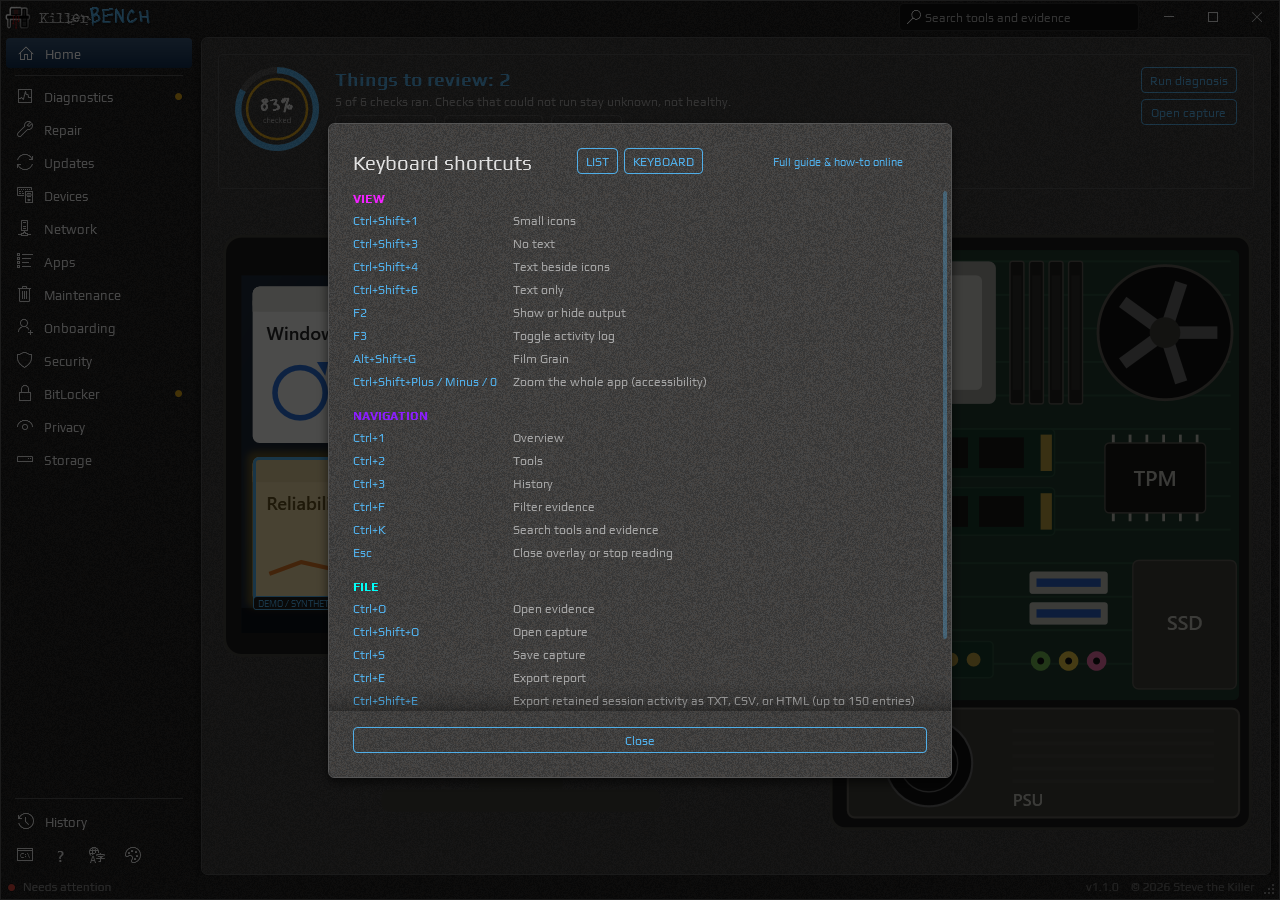
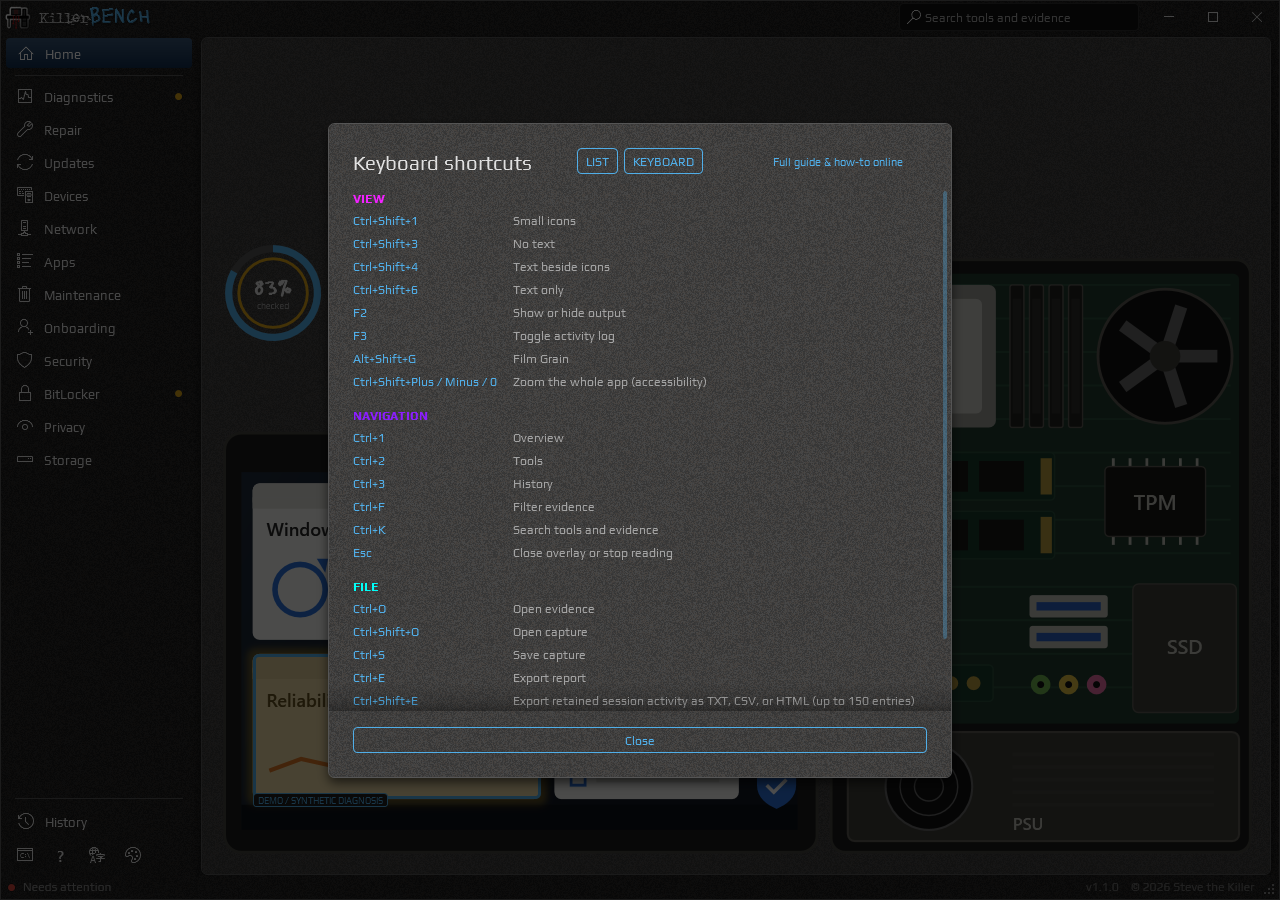
v1.1.0: Lower the monitor to the tower's base and put the gauge and buttons above it

diff --git a/Shell/MainWindow.xaml b/Shell/MainWindow.xaml
@@ -189,13 +189,15 @@
         <Border x:Name="OverviewPage" Grid.Column="2" Style="{StaticResource Panel}" Background="{DynamicResource ContentPaneBrush}" icons:ThemeMotif.Part="Window" icons:ThemeMotif.BaseBrush="ContentPaneBrush">
           <Grid><Border IsHitTestVisible="False" CornerRadius="{DynamicResource PanelCornerRadius}" Background="{DynamicResource GrainTileBrush}" Opacity="{DynamicResource GrainOpacity}"/><Border>
           <ScrollViewer x:Name="OverviewScroll" Style="{StaticResource ShadowScrollViewer}" Padding="16" VerticalScrollBarVisibility="Auto" HorizontalScrollBarVisibility="Disabled">
-            <!-- Home: one summary band across the top (gauge, status, symptoms, actions), the machine fills the rest. -->
+            <!-- Home: the machine sits on the pane's floor. The monitor is flush with the tower's base, and the space
+                 above the monitor holds the gauge, the status, the symptom buttons and the actions (MachineMapPanel.GaugeRect). -->
             <Grid x:Name="OverviewLayout">
-              <Grid.RowDefinitions><RowDefinition Height="Auto"/><RowDefinition Height="Auto"/></Grid.RowDefinitions>
-              <Border x:Name="OverviewHero" Margin="0,0,0,16" Background="{DynamicResource PaneBrush}" BorderBrush="{DynamicResource PaneBorderBrush}" BorderThickness="1" CornerRadius="{DynamicResource ControlCornerRadius}" Padding="16,12">
-                <Grid><Grid>
-                  <Grid.ColumnDefinitions><ColumnDefinition Width="Auto"/><ColumnDefinition Width="*"/><ColumnDefinition Width="Auto"/></Grid.ColumnDefinitions>
-                  <Viewbox x:Name="OverviewGaugeSpot" Width="84" Height="84" VerticalAlignment="Top" Margin="0,0,16,0">
+              <Grid x:Name="OverviewMapHost">
+              <Viewbox x:Name="OverviewHeroSpot" HorizontalAlignment="Left" VerticalAlignment="Top" Stretch="Uniform" StretchDirection="DownOnly" Panel.ZIndex="1">
+                <Border x:Name="OverviewHero" Width="440">
+                <Grid>
+                  <Grid.ColumnDefinitions><ColumnDefinition Width="Auto"/><ColumnDefinition Width="*"/></Grid.ColumnDefinitions>
+                  <Viewbox x:Name="OverviewGaugeSpot" Width="96" Height="96" VerticalAlignment="Top" Margin="0,0,16,0">
                     <Grid Width="120" Height="120">
                       <icons:CoverageGauge x:Name="OverviewGauge" TrackBrush="{DynamicResource PaneBorderBrush}" CoverageBrush="{DynamicResource PrimaryBrush}" ToneBrush="{DynamicResource PaneBorderBrush}" IsHitTestVisible="False"/>
                       <StackPanel VerticalAlignment="Center" HorizontalAlignment="Center">
@@ -204,7 +206,7 @@
                       </StackPanel>
                     </Grid>
                   </Viewbox>
-                  <StackPanel Grid.Column="1" VerticalAlignment="Center">
+                  <StackPanel Grid.Column="1" VerticalAlignment="Top">
                     <TextBlock x:Name="OverviewHeadline" Text="{DynamicResource Str_Workspace_SystemMap}" FontSize="18" FontWeight="SemiBold" Foreground="{DynamicResource PrimaryBrush}" TextWrapping="Wrap"/>
                     <TextBlock x:Name="OverviewDetail" Text="{DynamicResource Str_Workspace_MapHint}" FontSize="12" Foreground="{DynamicResource MutedTextBrush}" TextWrapping="Wrap" Margin="0,2,0,6"/>
                     <WrapPanel x:Name="OverviewChips" Visibility="Collapsed"/>
@@ -217,12 +219,11 @@
                         </Button>
                       </DataTemplate></ItemsControl.ItemTemplate>
                     </ItemsControl>
+                    <WrapPanel x:Name="OverviewMapActions" Margin="0,10,0,0"><Button x:Name="OverviewCheckButton" Content="{DynamicResource Str_Main_RunDiagnosis}" Click="OnOverviewCheck" Margin="0,0,8,0"/><Button x:Name="OverviewOpenCaptureButton" Content="{DynamicResource Str_OpenCapture}" Click="OnOpenCapture"/></WrapPanel>
                   </StackPanel>
-                  <StackPanel x:Name="OverviewMapActions" Grid.Column="2" VerticalAlignment="Top" Margin="16,0,0,0"><Button x:Name="OverviewCheckButton" Content="{DynamicResource Str_Main_RunDiagnosis}" Click="OnOverviewCheck" Margin="0,0,0,6"/><Button x:Name="OverviewOpenCaptureButton" Content="{DynamicResource Str_OpenCapture}" Click="OnOpenCapture"/></StackPanel>
                 </Grid>
-                <Border Style="{StaticResource FlyoutGrain}" Margin="-16,-12"/></Grid>
-              </Border>
-              <Grid x:Name="OverviewMapHost" Grid.Row="1">
+                </Border>
+              </Viewbox>
               <ListBox x:Name="SystemAreas" VerticalAlignment="Top" Background="Transparent" BorderThickness="0" SelectionChanged="OnSystemAreaSelected" PreviewMouseLeftButtonUp="OnReopenSelected" ScrollViewer.HorizontalScrollBarVisibility="Disabled" ScrollViewer.VerticalScrollBarVisibility="Disabled" AutomationProperties.Name="{DynamicResource Str_Workspace_SelectArea}">
                 <ListBox.ItemsPanel><ItemsPanelTemplate><icons:MachineMapPanel/></ItemsPanelTemplate></ListBox.ItemsPanel>
                 <ListBox.ItemContainerStyle><Style TargetType="ListBoxItem" BasedOn="{StaticResource SourceItem}">

diff --git a/Shell/WorkspaceNavigation.cs b/Shell/WorkspaceNavigation.cs
@@ -87,13 +87,57 @@ public partial class MainWindow
     private void FitSystemMap()
     {
         if (!OverviewPage.IsVisible || OverviewScroll.ViewportHeight <= 0) return;
-        // The machine fills whatever the summary band leaves, so the pane has no dead floor.
-        // A fixed height, not a floor: inside the scroll viewer the map would otherwise size itself to the width and run off the bottom.
-        // Below 280px it keeps that floor and the page scrolls rather than shrinking the machine to nothing.
-        double height = Math.Max(280, OverviewScroll.ViewportHeight - OverviewHero.ActualHeight - OverviewHero.Margin.Bottom - 2);
-        // A narrow pane stacks the parts as a list, which needs its natural height.
-        if (OverviewMapHost.ActualWidth < 460) { if (!double.IsNaN(SystemAreas.Height)) SystemAreas.ClearValue(HeightProperty); return; }
+        // A narrow pane stacks the parts as a list with the status block above it, at natural heights.
+        if (OverviewMapHost.ActualWidth < 460)
+        {
+            if (!double.IsNaN(SystemAreas.Height)) SystemAreas.ClearValue(HeightProperty);
+            if (!double.IsNaN(OverviewHeroSpot.Width)) { OverviewHeroSpot.ClearValue(WidthProperty); OverviewHeroSpot.ClearValue(MaxHeightProperty); }
+            SetIfChanged(OverviewHero, Math.Max(200, OverviewMapHost.ActualWidth));
+            SetMargin(OverviewHeroSpot, new Thickness(0));
+            SetMargin(SystemAreas, new Thickness(0, OverviewHeroSpot.ActualHeight + 12, 0, 0));
+            return;
+        }
+        // The machine takes the pane's full height: a fixed height, because inside the scroll viewer it would otherwise
+        // size itself to the width and run off the bottom. Below 280px the page scrolls instead of shrinking it to nothing.
+        double height = Math.Max(280, OverviewScroll.ViewportHeight - 2);
         if (double.IsNaN(SystemAreas.Height) || Math.Abs(SystemAreas.Height - height) > 1) SystemAreas.Height = height;
+        SetMargin(SystemAreas, new Thickness(0));
+        PlaceOverviewHero();
+    }
+
+    // The status block fills the space above the monitor, sitting just over it. It shrinks to fit when that space is small.
+    private void PlaceOverviewHero()
+    {
+        var machine = FindChild<KillerBench.Controls.MachineMapPanel>(SystemAreas);
+        if (machine is null || machine.GaugeRect.IsEmpty || machine.GaugeRect.Height <= 0) return;
+        Rect strip = machine.GaugeRect;
+        var origin = machine.TranslatePoint(new Point(strip.X, strip.Y), OverviewMapHost);
+        SetIfChanged(OverviewHero, Math.Max(440, strip.Width));
+        if (Math.Abs(OverviewHeroSpot.Width - strip.Width) > 0.5) OverviewHeroSpot.Width = strip.Width;
+        if (Math.Abs(OverviewHeroSpot.MaxHeight - strip.Height) > 0.5) OverviewHeroSpot.MaxHeight = strip.Height;
+        double used = OverviewHeroSpot.ActualHeight > 0 ? OverviewHeroSpot.ActualHeight : strip.Height;
+        SetMargin(OverviewHeroSpot, new Thickness(origin.X, origin.Y + Math.Max(0, strip.Height - used), 0, 0));
+    }
+
+    private static void SetIfChanged(FrameworkElement element, double width)
+    {
+        if (Math.Abs(element.Width - width) > 0.5) element.Width = width;
+    }
+
+    private static void SetMargin(FrameworkElement element, Thickness margin)
+    {
+        if (Math.Abs(element.Margin.Left - margin.Left) > 0.5 || Math.Abs(element.Margin.Top - margin.Top) > 0.5) element.Margin = margin;
+    }
+
+    private static T? FindChild<T>(DependencyObject parent) where T : DependencyObject
+    {
+        for (int i = 0; i < System.Windows.Media.VisualTreeHelper.GetChildrenCount(parent); i++)
+        {
+            var child = System.Windows.Media.VisualTreeHelper.GetChild(parent, i);
+            if (child is T match) return match;
+            if (FindChild<T>(child) is { } found) return found;
+        }
+        return null;
     }
 
     private void FitInitialOverviewHeight()

diff --git a/Controls/MachineMapPanel.cs b/Controls/MachineMapPanel.cs
@@ -41,16 +41,22 @@ public sealed class MachineMapPanel : Panel
         ["Repair"] = new(448, 340, 284, 82),
     };
 
+    // The monitor sits flush on the tower's floor line; the strip it frees above it is GaugeRect, where the
+    // Overview puts its score gauge. Monitor parts are drawn in the old coordinates and shifted down by MonitorDrop.
+    private const double MonitorDrop = 124;
     private static readonly Rect Monitor = new(4, 4, 424, 300);
     private static readonly Rect MonitorScreen = new(16, 32, 410, 260);
     private static readonly Rect Tower = new(438, 4, 300, 424);
 
     public Rect ScreenRect { get; private set; } = Rect.Empty;
     public Rect TowerRect { get; private set; } = Rect.Empty;
+    public Rect GaugeRect { get; private set; } = Rect.Empty;
 
     private double scale = 1;
     private Vector offset;
     private bool drawn;
+
+    private static Rect Placed(Rect design) => design.X < Tower.X ? Rect.Offset(design, 0, MonitorDrop) : design;
 
     private Rect ToView(Rect design) => new(offset.X + design.X * scale, offset.Y + design.Y * scale, design.Width * scale, design.Height * scale);
 
@@ -76,16 +82,20 @@ public sealed class MachineMapPanel : Panel
         {
             double y = 0;
             foreach (UIElement child in InternalChildren) { child.Arrange(new Rect(0, y, finalSize.Width, child.DesiredSize.Height)); y += child.DesiredSize.Height; }
-            ScreenRect = TowerRect = Rect.Empty;
+            ScreenRect = TowerRect = GaugeRect = Rect.Empty;
             InvalidateVisual();
             return finalSize;
         }
         scale = Math.Min(finalSize.Width / DesignWidth, finalSize.Height / DesignHeight);
-        offset = new Vector((finalSize.Width - DesignWidth * scale) / 2, Math.Max(0, (finalSize.Height - DesignHeight * scale) / 2));
-        ScreenRect = ToView(MonitorScreen);
+        // Centered across, sitting on the floor: spare height goes above the machine, into the space over the monitor.
+        offset = new Vector((finalSize.Width - DesignWidth * scale) / 2, Math.Max(0, finalSize.Height - DesignHeight * scale));
+        ScreenRect = ToView(Placed(MonitorScreen));
+        // Everything above the monitor, from the panel's top edge down to just over the webcam.
+        var monitorView = ToView(Placed(Monitor));
+        GaugeRect = new Rect(monitorView.X, 0, monitorView.Width, Math.Max(0, ToView(Placed(Parts["Privacy"])).Y - 6 * scale));
         TowerRect = ToView(Tower);
         foreach (UIElement child in InternalChildren)
-            child.Arrange(Parts.TryGetValue(GetPart(child), out var part) ? ToView(part) : new Rect(-9999, -9999, 0, 0));
+            child.Arrange(Parts.TryGetValue(GetPart(child), out var part) ? ToView(Placed(part)) : new Rect(-9999, -9999, 0, 0));
         InvalidateVisual();
         return finalSize;
     }
@@ -115,7 +125,9 @@ public sealed class MachineMapPanel : Panel
         if (!drawn || ActualWidth <= 0) return;
         dc.PushTransform(new TranslateTransform(offset.X, offset.Y));
         dc.PushTransform(new ScaleTransform(scale, scale));
+        dc.PushTransform(new TranslateTransform(0, MonitorDrop));
         DrawMonitor(dc);
+        dc.Pop();
         DrawTower(dc);
         dc.Pop();
         dc.Pop();
@@ -134,8 +146,6 @@ public sealed class MachineMapPanel : Panel
         dc.DrawRoundedRectangle(Case, Line(Edge, 2), Monitor, 12, 12);
         dc.DrawRectangle(ScreenFill, null, new Rect(MonitorScreen.X, MonitorScreen.Y, MonitorScreen.Width - 12, MonitorScreen.Height - 4));
         dc.DrawRectangle(Taskbar, null, new Rect(MonitorScreen.X, 270, MonitorScreen.Width - 12, 18));
-        dc.DrawRectangle(Metal, null, new Rect(186, 304, 60, 96));
-        dc.DrawRoundedRectangle(Metal, null, new Rect(116, 400, 200, 16), 6, 6);
 
         // Privacy: the webcam on the top bezel.
         var cam = Parts["Privacy"];

diff --git a/Checks/WorkspaceNavigationChecks.cs b/Checks/WorkspaceNavigationChecks.cs
@@ -70,21 +70,25 @@ internal static class WorkspaceNavigationChecks
             window.Height = 1000;
             Settle(window);
             var mapPane = Find<FrameworkElement>(window, "OverviewPage");
-            // Home is one summary band (gauge, status, symptoms, actions) over a machine that fills the rest of the pane.
+            // Home: the machine sits on the pane's floor with the monitor flush with the tower's base, and the gauge,
+            // status, symptoms and actions fill the space above the monitor. Nothing sits in a band of its own.
             var chips = Find<FrameworkElement>(window, "SymptomChips");
-            var hero = Find<FrameworkElement>(window, "OverviewHero");
+            var spot = Find<FrameworkElement>(window, "OverviewHeroSpot");
             var gauge = Find<FrameworkElement>(window, "OverviewGaugeSpot");
+            var actions = Find<FrameworkElement>(window, "OverviewMapActions");
             var drawn = FindVisual<KillerBench.Controls.MachineMapPanel>(map)!;
-            Require(chips.IsDescendantOf(hero) && gauge.IsDescendantOf(hero), "The gauge and the symptom buttons sit in the summary band, not in bars of their own.");
+            Require(chips.IsDescendantOf(spot) && gauge.IsDescendantOf(spot) && actions.IsDescendantOf(spot), "The gauge, symptoms and actions sit together above the monitor.");
             var scroll = Find<ScrollViewer>(window, "OverviewScroll");
-            double heroBottom = hero.TranslatePoint(new Point(0, hero.ActualHeight), scroll).Y;
-            double mapTop = map.TranslatePoint(new Point(0, 0), scroll).Y;
+            Rect block = spot.TransformToVisual(drawn).TransformBounds(new Rect(spot.RenderSize));
+            Rect screen = drawn.ScreenRect, tower = drawn.TowerRect;
+            // The screen glass starts below the bezel and webcam, so the block may sit up to the bezel's height plus a small gap above it.
+            Require(block.Bottom <= screen.Top && screen.Top - block.Bottom <= 70 &&block.Left >= screen.Left - 20 && block.Right <= tower.Left,
+                "The status block sits just above the monitor, left of the tower. Block " + block + ", screen " + screen + ", tower " + tower);
             double mapBottom = map.TranslatePoint(new Point(0, map.ActualHeight), scroll).Y;
-            Require(mapTop >= heroBottom && mapTop - heroBottom <= 20 && scroll.ScrollableHeight < 1 && scroll.ActualHeight - mapBottom <= 24,
-                "The machine starts right under the band and runs to the bottom of the pane. Band " + heroBottom + ", map " + mapTop + " to " + mapBottom + " of " + scroll.ActualHeight);
-            double machineWidth = drawn.TowerRect.Right - drawn.ScreenRect.Left, machineHeight = drawn.TowerRect.Height;
-            Require(Math.Min(map.ActualWidth - machineWidth, map.ActualHeight - machineHeight) <= 40,
-                "The machine is as big as the pane allows. Machine " + machineWidth + "x" + machineHeight + " in " + map.RenderSize);
+            Require(scroll.ScrollableHeight < 1 && scroll.ActualHeight - mapBottom <= 24 && map.ActualHeight - tower.Bottom <= 8,
+                "The machine stands on the pane's floor with no empty band under it. Tower bottom " + tower.Bottom + " of " + map.ActualHeight);
+            Require(map.ActualWidth - (tower.Right - screen.Left) <= 60 || tower.Top <= 4,
+                "The machine is as big as the pane allows. Machine " + (tower.Right - screen.Left) + "x" + tower.Height + " in " + map.RenderSize);
             Require(Find<TextBlock>(window, "OverviewDetail") is { IsVisible: true } detailLine && detailLine.Text.Length > 1,
                 "Before any check, the score card carries the map instruction instead of an empty line.");
             window.Width = 1025;

diff --git a/CHANGELOG.md b/CHANGELOG.md
@@ -33,8 +33,8 @@
 
 ### Changed
 
-- Reorganized the workbench around an illustrated system map, six symptom entry points and resizable evidence with coverage charts and finding cards. One sidebar on the left lists Home, every area and History, with the console, help, language and theme buttons pinned at its foot, and it drops to icons only below 900 effective pixels or when "No text" is chosen from its right-click menu. Search stays in the title bar, and the map fills the taller default window when screen space permits. Home carries six symptom buttons in its summary band, and each one opens its area and runs the matching check. Each area page lists its checks as rows under a header that holds the area name and the Run and Stop buttons, and the selected row opens in place with that check's options and repair consent. History uses the same header and row style, with the open-workflow and open-capture buttons in its header. Selecting a History row opens it in place with the outcome and each check's state, and its Full report and Raw output buttons swap in the complete views. The separate Investigate page is gone, since the Home symptom chips do the same job in one step, so Ctrl+1, Ctrl+2 and Ctrl+3 now open Home, the current area and History. Reports open under a single header row that holds Back, the title, the Readable report and Raw output toggle and Export, and the toggle moves under the title only when the pane is narrow. An area summary uses the same page header as the area page, lists its checks as slim rows, and marks its area in the sidebar.
-- The Overview opens on a coverage gauge that shows how much of the machine was actually checked, with the worst finding's color on its inner ring and counts for fixable, to-review, unknown and fine checks. The areas are drawn as a monitor and an open tower, where each area is the real part it covers: Storage is the drives, Network the Ethernet port and Wi-Fi card, BitLocker the TPM chip, Repair the power supply, and the software areas are windows and icons on the screen. Each part glows in its finding's color with a matching badge, demo results stay labeled on the part, and narrow windows fall back to a plain list. Checks that could not run lower the coverage and are never counted as healthy, and the area summary now uses the same numbers instead of counting an unknown check as a review item too. The area summary also draws those numbers as one colored bar split into fixable, to-review, unknown and fine checks, with a legend. Volumes whose capacity was measured get a used-space bar per drive, colored by that check's finding. Checks now record measured values as typed metrics in the result and its journal, so charts never read numbers back out of report text. The window opens at the height the Overview needs instead of a fixed 780 pixels, so no blank band sits under the map. The readable report opens with the same state bar and drive bars as the Overview instead of four count boxes, each finding card carries its state as a colored stripe, and cards show a next line only when it says something specific to that finding. Investigate shows its three steps as markers in the header and draws each symptom with its area's art, and Tools heads each category with its area's art. The workspace is now one pane: Home opens with one summary band across the top, carrying the coverage gauge, the map's instruction until the first check, the symptom buttons and the run and capture actions, with the system map filling the rest of the pane, and choosing an area, a symptom or a History result, or running a tool, swaps its details in over the page, with a Back button that swaps the page back. The session activity strip spans the whole pane, and a language change keeps the open area's details in place. History gets the same illustrated header and lists the session's results on a timeline. Search results show their area's art beside each title.
+- Reorganized the workbench around an illustrated system map, six symptom entry points and resizable evidence with coverage charts and finding cards. One sidebar on the left lists Home, every area and History, with the console, help, language and theme buttons pinned at its foot, and it drops to icons only below 900 effective pixels or when "No text" is chosen from its right-click menu. Search stays in the title bar, and the map fills the taller default window when screen space permits. Home carries six symptom buttons above the monitor, and each one opens its area and runs the matching check. Each area page lists its checks as rows under a header that holds the area name and the Run and Stop buttons, and the selected row opens in place with that check's options and repair consent. History uses the same header and row style, with the open-workflow and open-capture buttons in its header. Selecting a History row opens it in place with the outcome and each check's state, and its Full report and Raw output buttons swap in the complete views. The separate Investigate page is gone, since the Home symptom chips do the same job in one step, so Ctrl+1, Ctrl+2 and Ctrl+3 now open Home, the current area and History. Reports open under a single header row that holds Back, the title, the Readable report and Raw output toggle and Export, and the toggle moves under the title only when the pane is narrow. An area summary uses the same page header as the area page, lists its checks as slim rows, and marks its area in the sidebar.
+- The Overview opens on a coverage gauge that shows how much of the machine was actually checked, with the worst finding's color on its inner ring and counts for fixable, to-review, unknown and fine checks. The areas are drawn as a monitor and an open tower, where each area is the real part it covers: Storage is the drives, Network the Ethernet port and Wi-Fi card, BitLocker the TPM chip, Repair the power supply, and the software areas are windows and icons on the screen. Each part glows in its finding's color with a matching badge, demo results stay labeled on the part, and narrow windows fall back to a plain list. Checks that could not run lower the coverage and are never counted as healthy, and the area summary now uses the same numbers instead of counting an unknown check as a review item too. The area summary also draws those numbers as one colored bar split into fixable, to-review, unknown and fine checks, with a legend. Volumes whose capacity was measured get a used-space bar per drive, colored by that check's finding. Checks now record measured values as typed metrics in the result and its journal, so charts never read numbers back out of report text. The window opens at the height the Overview needs instead of a fixed 780 pixels, so no blank band sits under the map. The readable report opens with the same state bar and drive bars as the Overview instead of four count boxes, each finding card carries its state as a colored stripe, and cards show a next line only when it says something specific to that finding. Investigate shows its three steps as markers in the header and draws each symptom with its area's art, and Tools heads each category with its area's art. The workspace is now one pane: Home stands the system map on the pane's floor with the monitor level with the tower, and the space above the monitor carries the coverage gauge, the map's instruction until the first check, the symptom buttons and the run and capture actions, and choosing an area, a symptom or a History result, or running a tool, swaps its details in over the page, with a Back button that swaps the page back. The session activity strip spans the whole pane, and a language change keeps the open area's details in place. History gets the same illustrated header and lists the session's results on a timeline. Search results show their area's art beside each title.
 - Added grouped tool and evidence search plus workspace, capture and export shortcuts, with matching tooltips, menus, keyboard maps and translated Help tables. Text fields and dialogs use the family context menu with mouse and keyboard access.
 - Updated the WinGet submission tool to Komac 2.17.2.
 - Demo runs and screenshots use realistic workstation findings and normal report labels.
